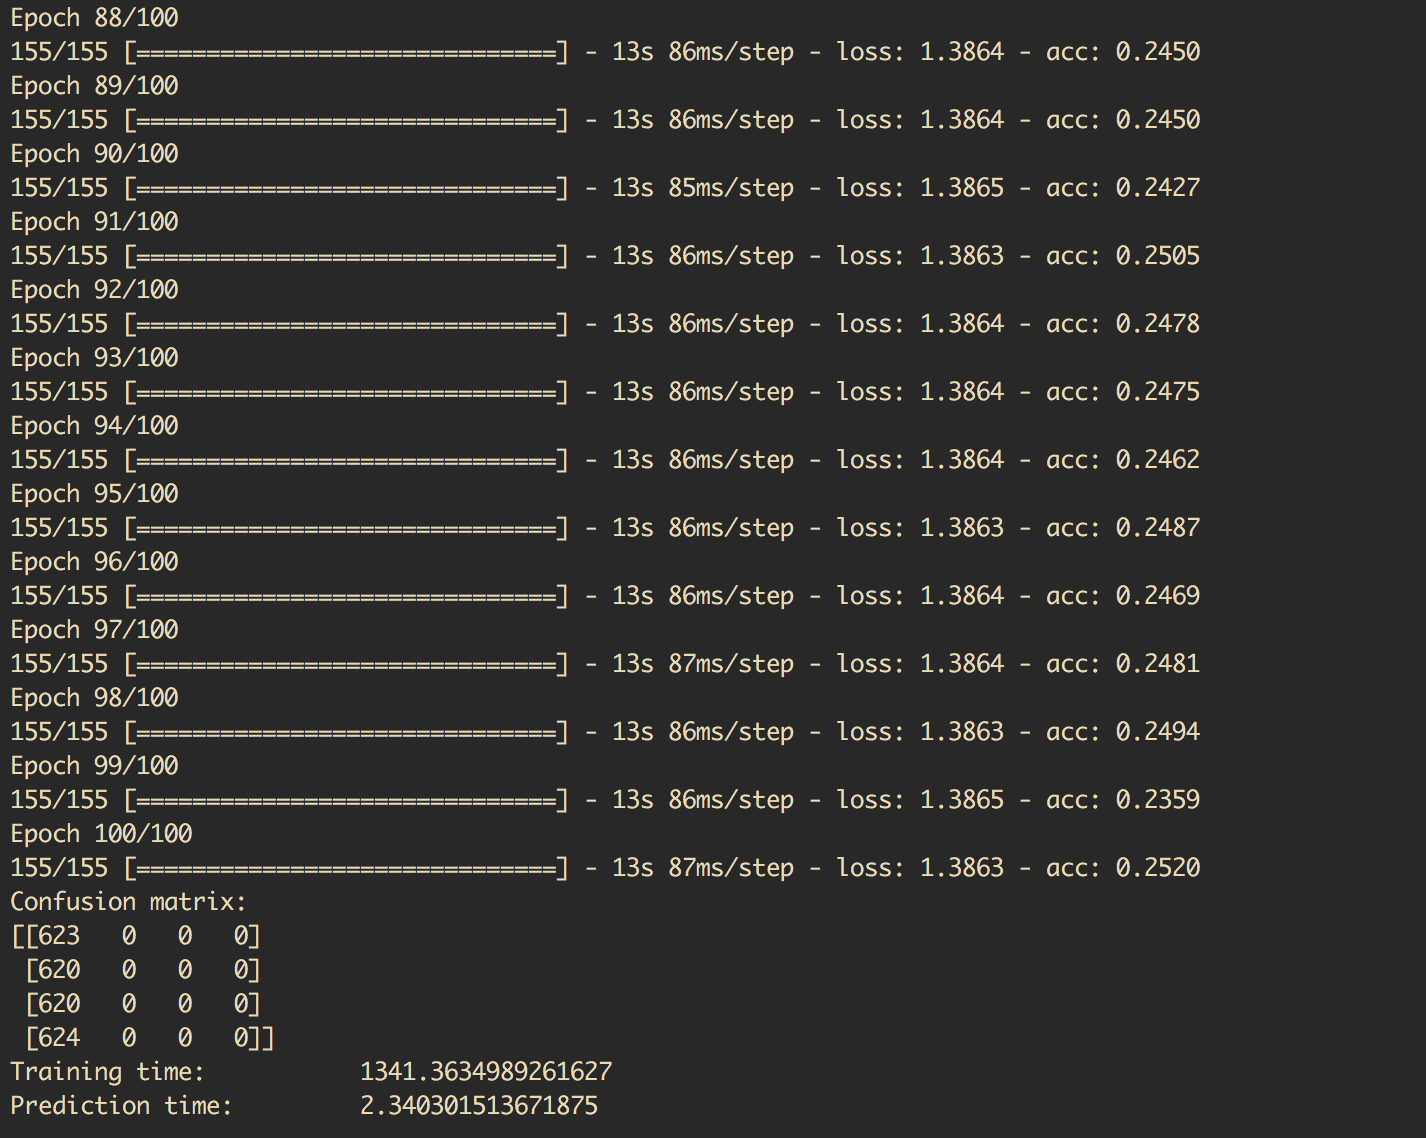
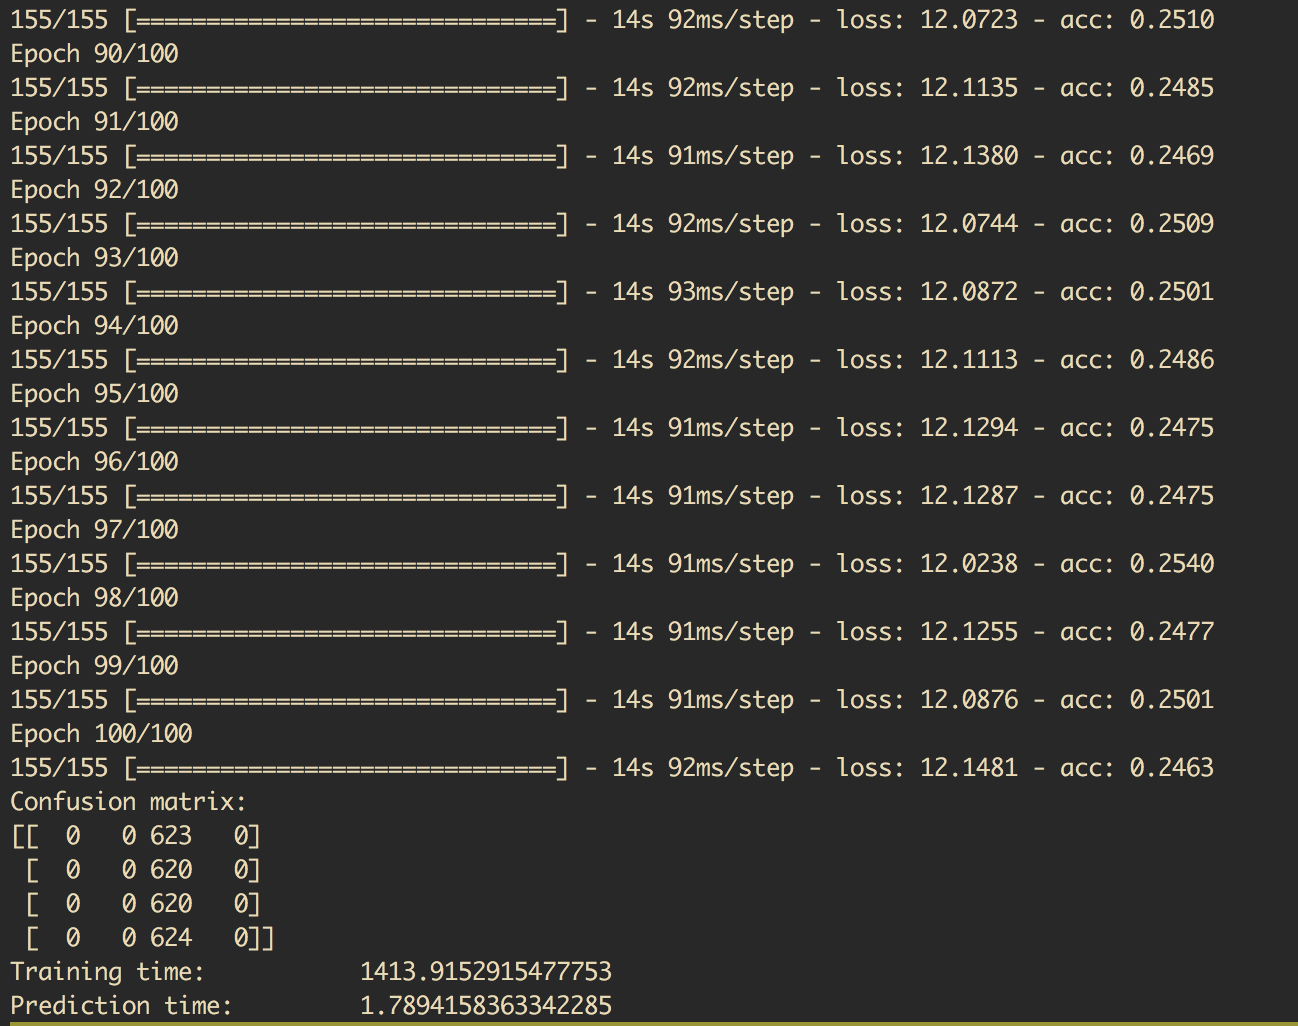
update by set filter to 4; change fnn's model construction

diff --git a/score.py b/score.py
@@ -41,6 +41,18 @@ def printMetrics(indx2metrics):
         print('f2', k, f2)
         print('')
 
+    # For excel paste : )
+    print('# For excel paste : )')
+    for k in indx2metrics:
+        o = indx2metrics[k]
+        correctPercent = getCorrectPercent(o)
+        recall = getRecall(o)
+        specificity = getSpecificity(o)
+        precision = getPrecision(o)
+        f1 = getF1(precision, recall)
+        f2 = getF2(precision, recall)
+        print('{},{},{},{},{},{}'.format(correctPercent, recall, specificity, precision, f1, f2))
+
 def getIndx2Metrics(cm):
     indx2metrics = {}
     for i, predicts in enumerate(cm):
@@ -53,18 +65,18 @@ def getIndx2Metrics(cm):
 '''
 Task 1
 Confusion matrix:
-[[623   0   0   0]
- [620   0   0   0]
- [620   0   0   0]
- [624   0   0   0]]
-Training time:           1341.3634989261627
-Prediction time:         2.340301513671875
+[[  0   0 623   0]
+ [  0   0 620   0]
+ [  0   0 620   0]
+ [  0   0 624   0]]
+Training time:           1413.9152915477753
+Prediction time:         1.7894158363342285
 '''
 cm = np.array([
-    [623,   0,   0,   0],
-    [620,   0,   0,   0],
-    [620,   0,   0,   0],
-    [624,   0,   0,   0],
+    [0,   0,  623,    0],
+    [0,   0,  620,    0],
+    [0,   0,  620,    0],
+    [0,   0,  624,    0],
 ])
 
 print('task 1')
@@ -73,18 +85,19 @@ printMetrics(indx2metrics)
 
 '''
 Task 2
-[[250  57  50 266]
- [ 93 277  71 179]
- [ 60  19 421 120]
- [206  47 107 264]]
-Training time:           1430.3466546535492
-Prediction time:         2.4221107959747314
+Confusion matrix:
+[[126 163  82 252]
+ [ 39 323  65 193]
+ [ 23  59 457  81]
+ [ 96 135 166 227]]
+Training time:           1427.547043800354
+Prediction time:         2.491168737411499
 '''
 cm = np.array([
-    [250,  57,  50, 266],
-    [ 93, 277,  71, 179],
-    [ 60,  19, 421, 120],
-    [206,  47, 107, 264],
+ [126, 163,  82, 252],
+ [ 39, 323,  65, 193],
+ [ 23,  59, 457,  81],
+ [ 96, 135, 166, 227],
 ])
 
 print('task 2')
@@ -94,18 +107,19 @@ printMetrics(indx2metrics)
 
 '''
 Task 3
-[[177  94  47 305]
- [ 48 320  56 196]
- [ 42  79 364 135]
- [167 140  45 272]]
-Training time:           1407.9878554344177
-Prediction time:         2.4469852447509766
+Confusion matrix:
+[[270  62  40 251]
+ [130 197  15 278]
+ [ 85   8 344 183]
+ [242  51  29 302]]
+Training time:           1597.7762842178345
+Prediction time:         2.661710500717163
 '''
 cm = np.array([
- [177,  94,  47, 305],
- [48, 320,  56, 196],
- [42,  79, 364, 135],
- [167, 140,  45, 272],
+ [270,  62,  40, 251],
+ [130, 197,  15, 278],
+ [ 85,   8, 344, 183],
+ [242,  51,  29, 302],
 ])
 
 print('task 3')

diff --git a/bloodcells-starterV2.py b/bloodcells-starterV2.py
@@ -107,24 +107,24 @@ met           = ['accuracy']
 ### Ref: https://www.programcreek.com/python/example/89711/keras.layers.AveragePooling2D
 ###
 def base_net():
-    ###
-    ### your code here
-    ###
-    layer_in = Input(shape=(nx, ny, 3), name='img_goes_here')
-    ### create your input layer here
-    ### downsample the data
-    layer = AveragePooling2D(pool_size=dfactor, padding='same')(layer_in)
-    layer = Flatten()(layer)
-    ###
-    layer = Dense(nc, input_dim=nx * ny * 3, init="uniform", activation="relu")(layer)
-    layer = Dense(len(cell_types), activation='softmax')(layer)
-    model = Model(input=layer_in, output=layer)
+    # ###
+    # ### your code here
+    # ###
+    # layer_in = Input(shape=(nx, ny, 3), name='img_goes_here')
+    # ### create your input layer here
+    # ### downsample the data
+    # layer = AveragePooling2D(pool_size=dfactor, padding='same')(layer_in)
+    # layer = Flatten()(layer)
+    # ###
+    # layer = Dense(nc, input_dim=nx * ny * 3, init="uniform", activation="relu")(layer)
+    # layer = Dense(len(cell_types), activation='softmax')(layer)
+    # model = Model(input=layer_in, output=layer)
 
-    # model = Sequential()
-    # model.add(AveragePooling2D(pool_size=dfactor, padding='same'))
-    # model.add(Flatten())
-    # model.add(Dense(nc, input_dim=nx * ny * 3, init="uniform", activation="relu"))
-    # model.add(Dense(4, activation="softmax"))
+    model = Sequential()
+    model.add(AveragePooling2D(pool_size=dfactor, padding='same', input_shape=(nx, ny, 3)))
+    model.add(Dense(nc, input_dim=nx * ny * 3, init="uniform", activation="relu"))
+    model.add(Flatten())
+    model.add(Dense(4, activation="softmax"))
     # ### your code here
     # ###
 
@@ -169,9 +169,10 @@ def improved_cnn():
 ### For each model you create, add a key
 ### pair to the dictionary of the form below
 models = { \
-    #"base"             :  base_net  ,
-    #"base_cnn"          :  base_cnn  ,
-    "improved_cnn"      :  improved_cnn  ,
+    "base_fnn"             :  base_net  ,
+    "base_cnn"          :  base_cnn  ,
+    "base_cnn_Adadelta"          :  base_cnn  ,
+    #"improved_cnn"      :  improved_cnn  ,
 ### "model_example"  : get_model_example ,
     }
 ###
@@ -192,6 +193,8 @@ models = { \
 for m in models:
 
     print("Model: ", m)
+    if m == "base_cnn_Adadelta":
+        opt=keras.optimizers.Adadelta()
     net = models[m]()
     net.compile(loss=lss, optimizer=opt, metrics=met)
 
